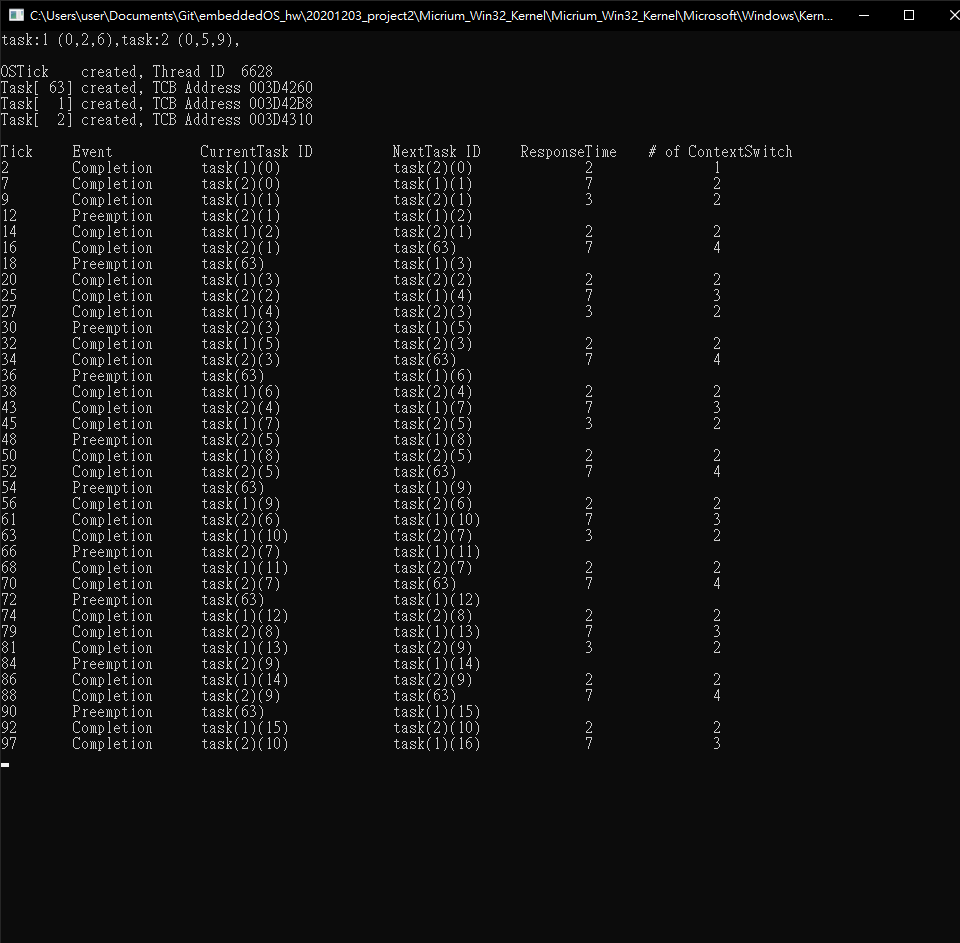
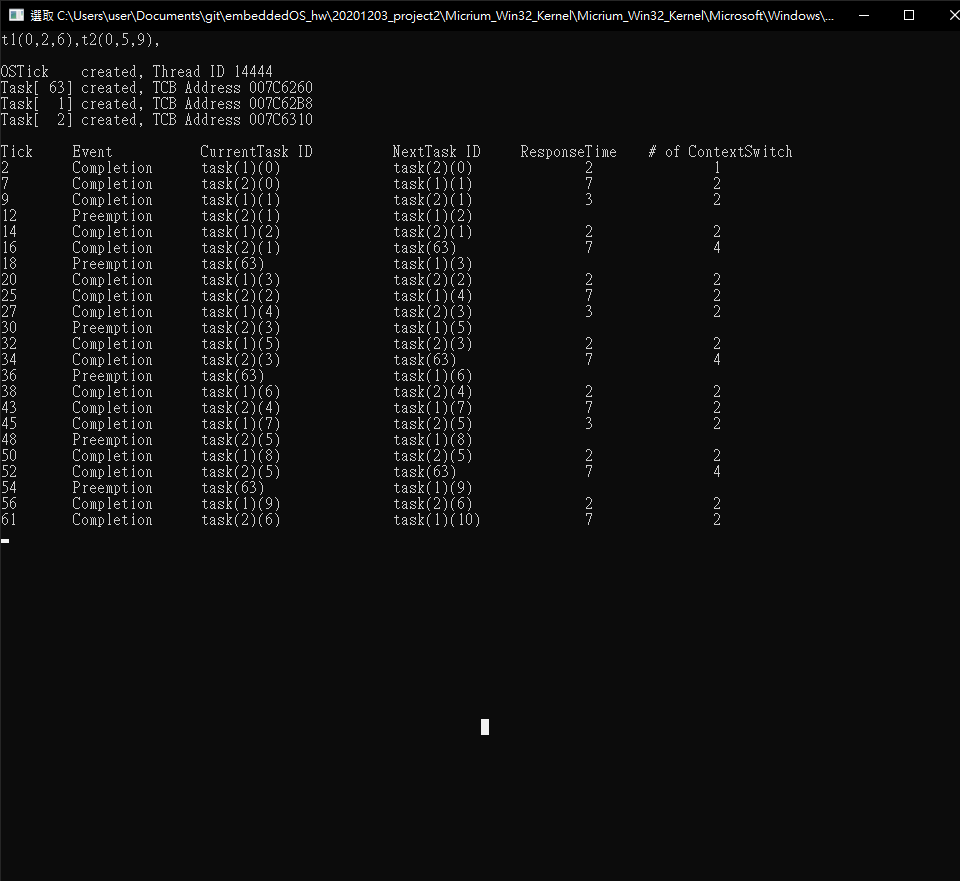
excel

diff --git a/20201203_project2/Micrium_Win32_Kernel/Micrium_Win32_Kernel/Micrium/Software/uCOS-II/Source/os_core.c b/20201203_project2/Micrium_Win32_Kernel/Micrium_Win32_Kernel/Micrium/Software/uCOS-II/Source/os_core.c
@@ -2201,7 +2201,7 @@ void Kevin_OSInit(void){
 
     kevin_task_num =        4;
     kevin_aperiodic_num =   2;
-    kevin_aperiodic_us =    0.3;
+    kevin_aperiodic_us =    0.2;
     
     // kevin print task seting show
     for(int i = 1; i <= kevin_task_num; i++)
